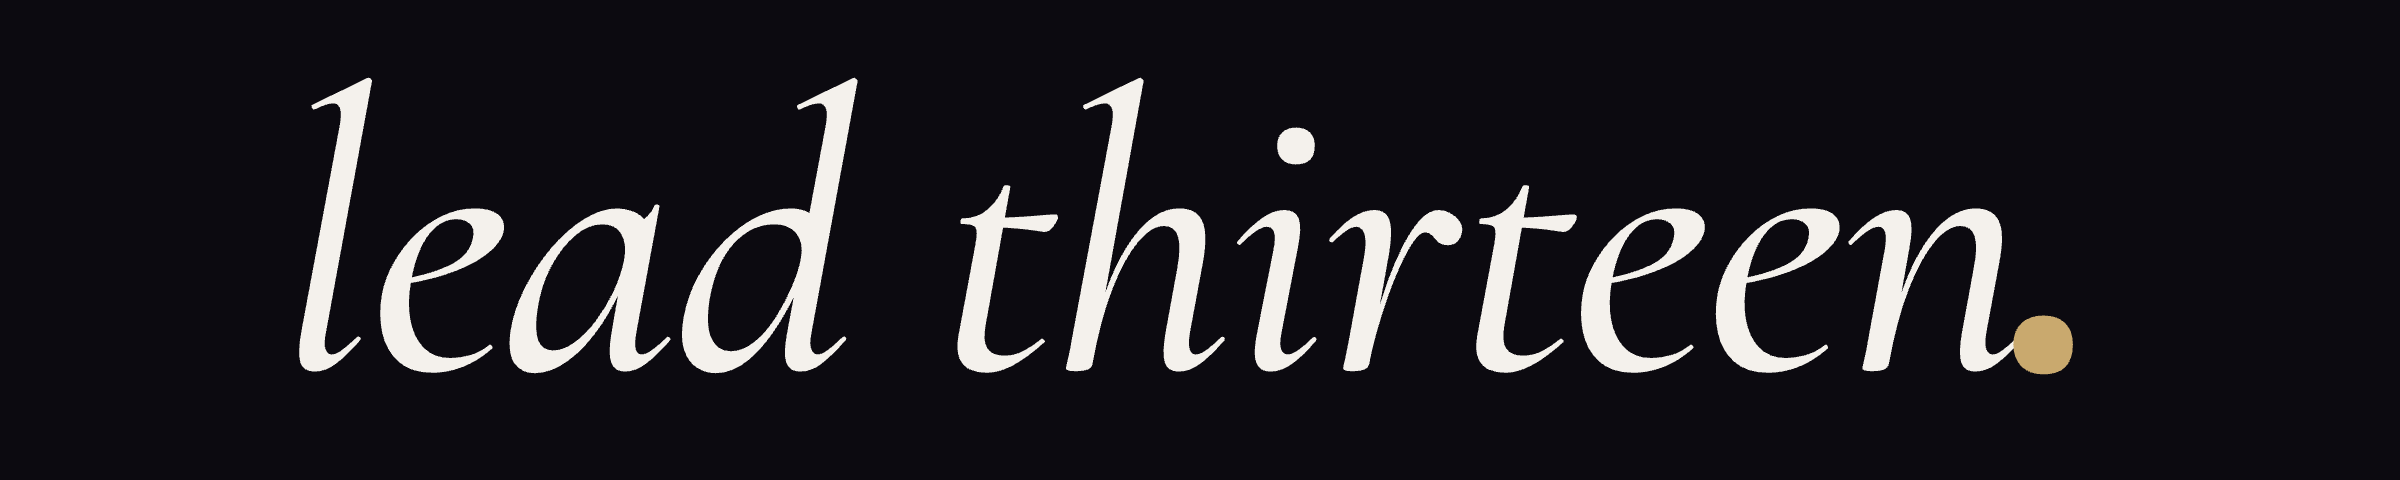
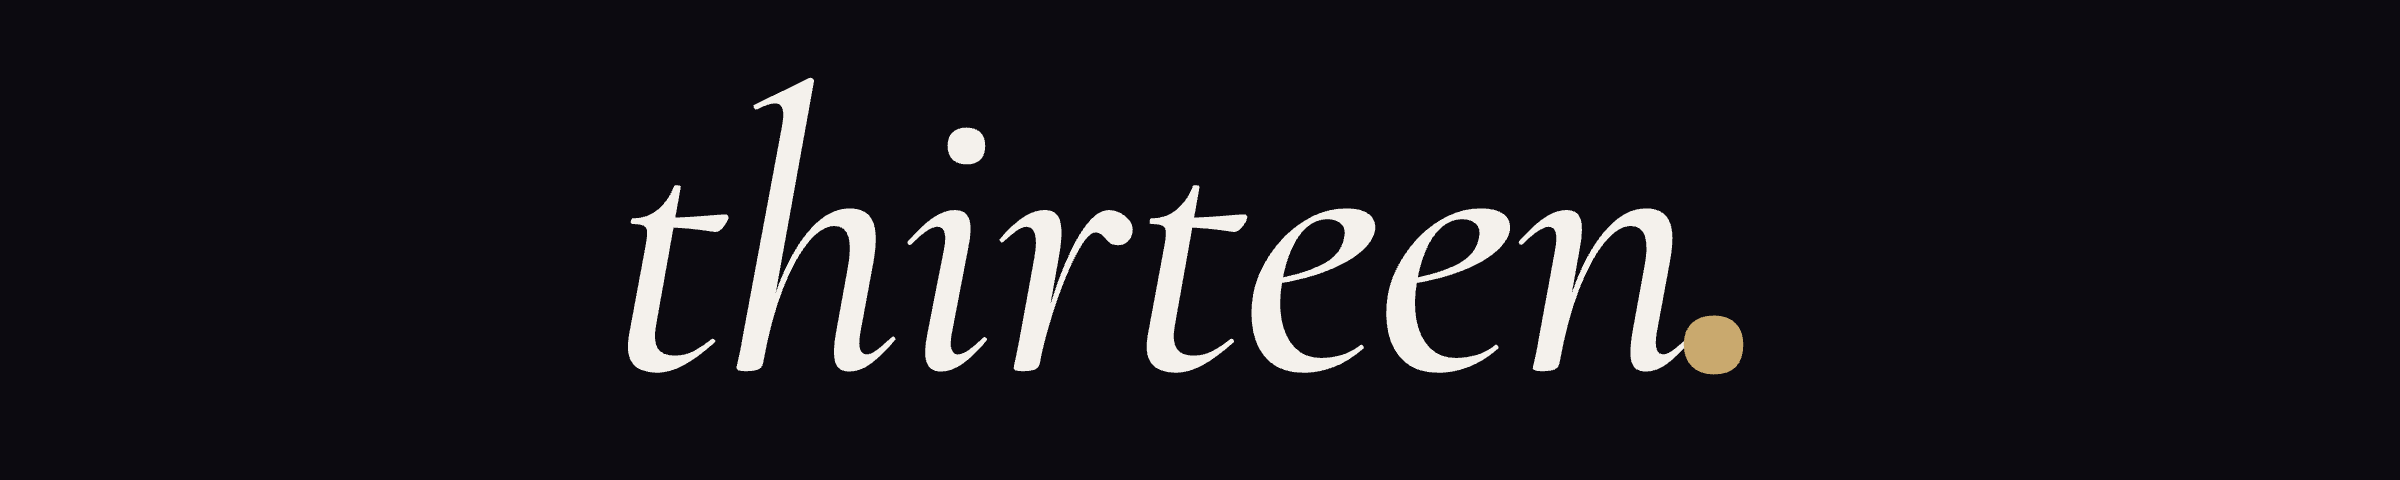
feat(brand): rebrand to thirteen. — AI consulting positioning
Strips Lead Thirteen cold-email framing and reframes the site as
thirteen. with tagline "AI, engineered." Hero, closing letter, and
nav CTAs all rewrite around AIOS implementation. Testimonial stack
swapped for a credential strip (Research Engineer / CS·AI / Certified
AI Consultant / live AIOS). All public CTAs route to mailto:[email redacted].

Brand assets (SVGs + auto-rendered PNGs) updated to the new wordmark
and tagline. package.json + index.html title renamed. Dead Cal.com
embed script removed from index.html (no more public booking link).

Changed region(s): [[0.125, 0.1562, 0.875, 0.7812], [0.5312, 0.25, 0.5625, 0.3438]]

diff --git a/src/components/CredentialStrip.tsx b/src/components/CredentialStrip.tsx
@@ -1,0 +1,63 @@
+type Credential = {
+  label: string;
+  body: React.ReactNode;
+};
+
+const CREDENTIALS: Credential[] = [
+  {
+    label: 'CURRENTLY',
+    body: 'AI Research Engineer',
+  },
+  {
+    label: 'EDUCATION',
+    body: (
+      <>
+        Computer Science · AI ·{' '}
+        <em className="italic text-champagne">Top-100 University</em>
+      </>
+    ),
+  },
+  {
+    label: 'CERTIFIED',
+    body: 'AI Consultant',
+  },
+  {
+    label: 'LIVING PROOF',
+    body: (
+      <>
+        Running my own agency on the{' '}
+        <em className="italic text-champagne">same AIOS</em> I'd build for you
+      </>
+    ),
+  },
+];
+
+export function CredentialStrip() {
+  return (
+    <section className="px-6 sm:px-10 lg:px-14 py-20 sm:py-28">
+      <div className="mx-auto max-w-[1100px]">
+        <div className="font-sans font-medium text-[13px] tracking-[0.32em] uppercase text-champagne mb-4">
+          — THE BUILDER
+        </div>
+        <h2 className="font-display italic font-normal text-[48px] sm:text-[58px] lg:text-[64px] leading-[1.06] tracking-[-0.02em] text-ivory mb-10 sm:mb-12">
+          Built by an <em className="italic text-champagne">engineer</em>.
+        </h2>
+        <div className="border-t border-white/[0.08]">
+          {CREDENTIALS.map(({ label, body }) => (
+            <div
+              key={label}
+              className="flex flex-col sm:flex-row sm:items-baseline gap-2 sm:gap-10 py-6 sm:py-7 border-b border-white/[0.08]"
+            >
+              <div className="font-mono text-[11px] sm:text-[12px] tracking-[0.18em] uppercase text-ivory/40 sm:w-[160px] sm:flex-shrink-0">
+                {label}
+              </div>
+              <div className="font-display italic text-[22px] sm:text-[26px] lg:text-[30px] leading-[1.3] text-ivory/95">
+                {body}
+              </div>
+            </div>
+          ))}
+        </div>
+      </div>
+    </section>
+  );
+}

diff --git a/src/components/ClosingSection.tsx b/src/components/ClosingSection.tsx
@@ -1,4 +1,4 @@
-const BOOKING_URL = 'https://cal.com/adham-hamza/fit-assessment';
+const CONTACT_URL = 'mailto:[email redacted]';
 
 export function ClosingSection() {
   return (
@@ -25,15 +25,13 @@ export function ClosingSection() {
             <em className="italic text-champagne">we fit</em>.
           </h2>
           <p className="font-display italic text-[19px] sm:text-[22px] leading-[1.4] text-ivory/85 mb-8">
-            A short call. No pitch deck. Either we're a match or we're not.
+            A short conversation. No pitch deck. Either we're a match or we're not.
           </p>
           <a
-            href={BOOKING_URL}
-            target="_blank"
-            rel="noopener noreferrer"
+            href={CONTACT_URL}
             className="inline-flex items-center gap-2.5 rounded-full bg-primary px-5 py-3 text-sm font-semibold text-ivory shadow-[0_0_0_1px_rgba(201,169,110,0.3)] hover:opacity-95 transition"
           >
-            Book a fit assessment
+            ask thirteen.
             <span aria-hidden>→</span>
           </a>
         </div>
@@ -46,16 +44,16 @@ export function ClosingSection() {
           </div>
           <div className="font-display text-[18px] sm:text-[19px] lg:text-[20px] leading-[1.65] text-ivory/95 mb-6 space-y-4">
             <p>
-              Most cold email looks the same. Lead gen agencies chuck a prompt into Claude, take what it spits out, and run with it. They pull from stale databases like Apollo and call it a day.
+              Most "AI consultants" right now are PMs who got laid off six months ago. They take a $99 prompt course, brand themselves as strategists, and pitch decks for systems they couldn't build themselves.
             </p>
             <p>
-              I operate on a different wavelength. I built a bespoke tool that scrapes fresh leads from Google, Google Maps, and LinkedIn. I hand-write every piece of copy for conversion. I run your campaigns as if they were my own. I take it personally.
+              I'm not that. I'm an AI Research Engineer. I build and ship production systems. I run my own agency on the AIOS I'd install for you — daily briefs, intel collection, automated comms, custom agents — all live, all working.
             </p>
             <p>
-              You don't have to take my word for it. Look at what my clients have to say above.
+              The work is audit, architect, install. We start with a conversation about your business. If there's a fit, we go deep.
             </p>
             <p>
-              Look forward to speaking soon.
+              Looking forward to speaking soon.
             </p>
           </div>
           <p className="font-display italic text-[18px] sm:text-[19px] text-ivory/85 mb-1">
@@ -65,7 +63,7 @@ export function ClosingSection() {
             Adham
           </div>
           <div className="font-sans text-[12px] tracking-[0.18em] uppercase text-muted-foreground">
-            FOUNDER · LEAD THIRTEEN
+            FOUNDER · THIRTEEN
           </div>
         </div>
       </div>

diff --git a/src/components/Hero.tsx b/src/components/Hero.tsx
@@ -1,7 +1,7 @@
 import { useRef, useState } from 'react';
 import { SparksCanvas } from './SparksCanvas';
 
-const BOOKING_URL = 'https://cal.com/adham-hamza/fit-assessment';
+const CONTACT_URL = 'mailto:[email redacted]';
 
 export function Hero() {
   const heroRef = useRef<HTMLDivElement>(null);
@@ -55,9 +55,9 @@ export function Hero() {
         className="absolute z-10 top-10 right-8 lg:right-14 text-right font-display italic lowercase text-ivory/75 leading-[1.5] tracking-[-0.005em] hidden lg:block"
         aria-hidden
       >
-        <div className="text-[20px] fade-in-up" style={{ animationDelay: '0.05s' }}>pay-per-lead.</div>
+        <div className="text-[20px] fade-in-up" style={{ animationDelay: '0.05s' }}>audit-first.</div>
         <div className="text-[20px] fade-in-up" style={{ animationDelay: '0.15s' }}>founder-led.</div>
-        <div className="text-[20px] fade-in-up text-champagne" style={{ animationDelay: '0.25s' }}>human, not ai.</div>
+        <div className="text-[20px] fade-in-up text-champagne" style={{ animationDelay: '0.25s' }}>engineered, not wrapped.</div>
       </div>
 
       {/* content (bottom-left) */}
@@ -67,24 +67,22 @@ export function Hero() {
           className="font-display font-medium text-[44px] sm:text-[60px] md:text-[72px] lg:text-[80px] leading-[1.06] tracking-[-0.02em] text-ivory mb-4 fade-in-up"
           style={{ animationDelay: '0.15s' }}
         >
-          Cold email,
+          AI,
           <br />
-          <em className="italic font-normal text-champagne">hand-written</em>.
+          <em className="italic font-normal text-champagne">engineered</em>.
         </h1>
         <p
           className="font-display italic text-[19px] sm:text-[21px] lg:text-[24px] leading-[1.45] text-ivory/85 mb-7 max-w-[560px] fade-in-up"
           style={{ animationDelay: '0.25s' }}
         >
-          I reach out to your ideal prospects for you. Lead lists, human-written copy, email verification, warmup, and outreach, all done by yours truly. You only pay when a lead shows interest.
+          I build operating systems for businesses — the daily briefs, intel collectors, agents, and automations that take the manual work off the operator's plate. Audit-first. Founder-led. Boutique.
         </p>
         <a
-          href={BOOKING_URL}
-          target="_blank"
-          rel="noopener noreferrer"
+          href={CONTACT_URL}
           className="inline-flex items-center gap-2.5 rounded-full bg-primary px-5 py-3 text-sm font-semibold text-ivory shadow-[0_0_0_1px_rgba(201,169,110,0.3)] hover:opacity-95 transition fade-in-up"
           style={{ animationDelay: '0.35s' }}
         >
-          Book a fit assessment
+          ask thirteen.
           <span aria-hidden>→</span>
         </a>
       </div>

diff --git a/index.html b/index.html
@@ -7,7 +7,7 @@
     <link rel="preconnect" href="https://fonts.googleapis.com">
     <link rel="preconnect" href="https://fonts.gstatic.com" crossorigin>
     <link href="https://fonts.googleapis.com/css2?family=Caveat:wght@400;500&family=Cormorant+Garamond:ital,wght@0,400;0,500;1,400;1,500&family=Inter:wght@300;400;500;600;700&family=JetBrains+Mono:wght@400;500&display=swap" rel="stylesheet">
-    <title>lead thirteen.</title>
+    <title>thirteen.</title>
 
     <!-- Google tag (gtag.js) -->
     <script async src="https://www.googletagmanager.com/gtag/js?id=G-TFGZXWYK4C"></script>
@@ -17,13 +17,6 @@
       gtag('js', new Date());
 
       gtag('config', 'G-TFGZXWYK4C');
-    </script>
-
-    <!-- Cal.com embed script -->
-    <script type="text/javascript">
-      (function (C, A, L) { let p = function (a, ar) { a.q.push(ar); }; let d = C.document; C.Cal = C.Cal || function () { let cal = C.Cal; let ar = arguments; if (!cal.loaded) { cal.ns = {}; cal.q = cal.q || []; d.head.appendChild(d.createElement("script")).src = A; cal.loaded = true; } if (ar[0] === L) { const api = function () { p(api, arguments); }; const namespace = ar[1]; api.q = api.q || []; if(typeof namespace === "string"){cal.ns[namespace] = cal.ns[namespace] || api;p(cal.ns[namespace], ar);p(cal, ["initNamespace", namespace]);} else p(cal, ar); return;} p(cal, ar); }; })(window, "https://app.cal.com/embed/embed.js", "init");
-      Cal("init", "fit-assessment", {origin:"https://app.cal.com"});
-      Cal.ns["fit-assessment"]("ui", {"cssVarsPerTheme":{"light":{"cal-brand":"#1A1426"},"dark":{"cal-brand":"#9D6ADD"}},"hideEventTypeDetails":false,"layout":"month_view"});
     </script>
   </head>
   <body>

diff --git a/src/components/Nav.tsx b/src/components/Nav.tsx
@@ -1,6 +1,6 @@
 import { Logo } from './Logo';
 
-const BOOKING_URL = 'https://cal.com/adham-hamza/fit-assessment';
+const CONTACT_URL = 'mailto:[email redacted]';
 
 export function Nav() {
   return (
@@ -9,12 +9,10 @@ export function Nav() {
         <div className="flex h-16 sm:h-20 items-center justify-between">
           <Logo size="nav" />
           <a
-            href={BOOKING_URL}
-            target="_blank"
-            rel="noopener noreferrer"
+            href={CONTACT_URL}
             className="inline-flex items-center gap-2 rounded-full bg-primary px-4 py-2.5 sm:px-5 sm:py-2.5 text-[13px] sm:text-sm font-semibold text-ivory shadow-[0_0_0_1px_rgba(201,169,110,0.3)] hover:opacity-95 transition min-h-[44px]"
           >
-            Book a fit assessment
+            ask thirteen.
             <span aria-hidden>→</span>
           </a>
         </div>

diff --git a/src/App.tsx b/src/App.tsx
@@ -1,7 +1,7 @@
 import { Nav } from './components/Nav';
 import { Footer } from './components/Footer';
 import { Hero } from './components/Hero';
-import { TestimonialStack } from './components/TestimonialStack';
+import { CredentialStrip } from './components/CredentialStrip';
 import { ClosingSection } from './components/ClosingSection';
 
 function App() {
@@ -10,7 +10,7 @@ function App() {
       <Nav />
       <main className="flex-1">
         <Hero />
-        <TestimonialStack />
+        <CredentialStrip />
         <ClosingSection />
       </main>
       <Footer />

diff --git a/src/components/Logo.tsx b/src/components/Logo.tsx
@@ -20,7 +20,7 @@ export function Logo({ size = 'nav', className }: LogoProps) {
         className,
       )}
     >
-      lead thirteen
+      thirteen
       <span
         className="text-champagne"
         style={{ fontSize: '1.6em', lineHeight: 0, verticalAlign: 0, marginLeft: '-0.04em' }}

diff --git a/public/brand/README.md b/public/brand/README.md
@@ -1,11 +1,11 @@
-# Lead Thirteen — Brand Assets
+# thirteen. — Brand Assets
 
 All assets live at `/public/brand/` and are served by the deploy at:
 
 - `/brand/wordmark.svg` — wordmark only, transparent bg (1200×240). Use on any background.
 - `/brand/wordmark-dark.svg` — wordmark on midnight background (1200×240). Use as a banner or letterhead.
 - `/brand/profile-square.svg` — 1024×1024 LinkedIn / social profile photo (square, dark, centered wordmark with hairline + champagne dot).
-- `/brand/banner-linkedin.svg` — 1584×396 LinkedIn banner with "cold email, hand-written." headline + brand purple orb.
+- `/brand/banner-linkedin.svg` — 1584×396 LinkedIn banner with "AI, engineered." headline + brand purple orb.
 - `/brand/mark.svg` — 1024×1024 just the champagne dot mark (no wordmark).
 - `/favicon.svg` — same mark sized for the browser tab.
 